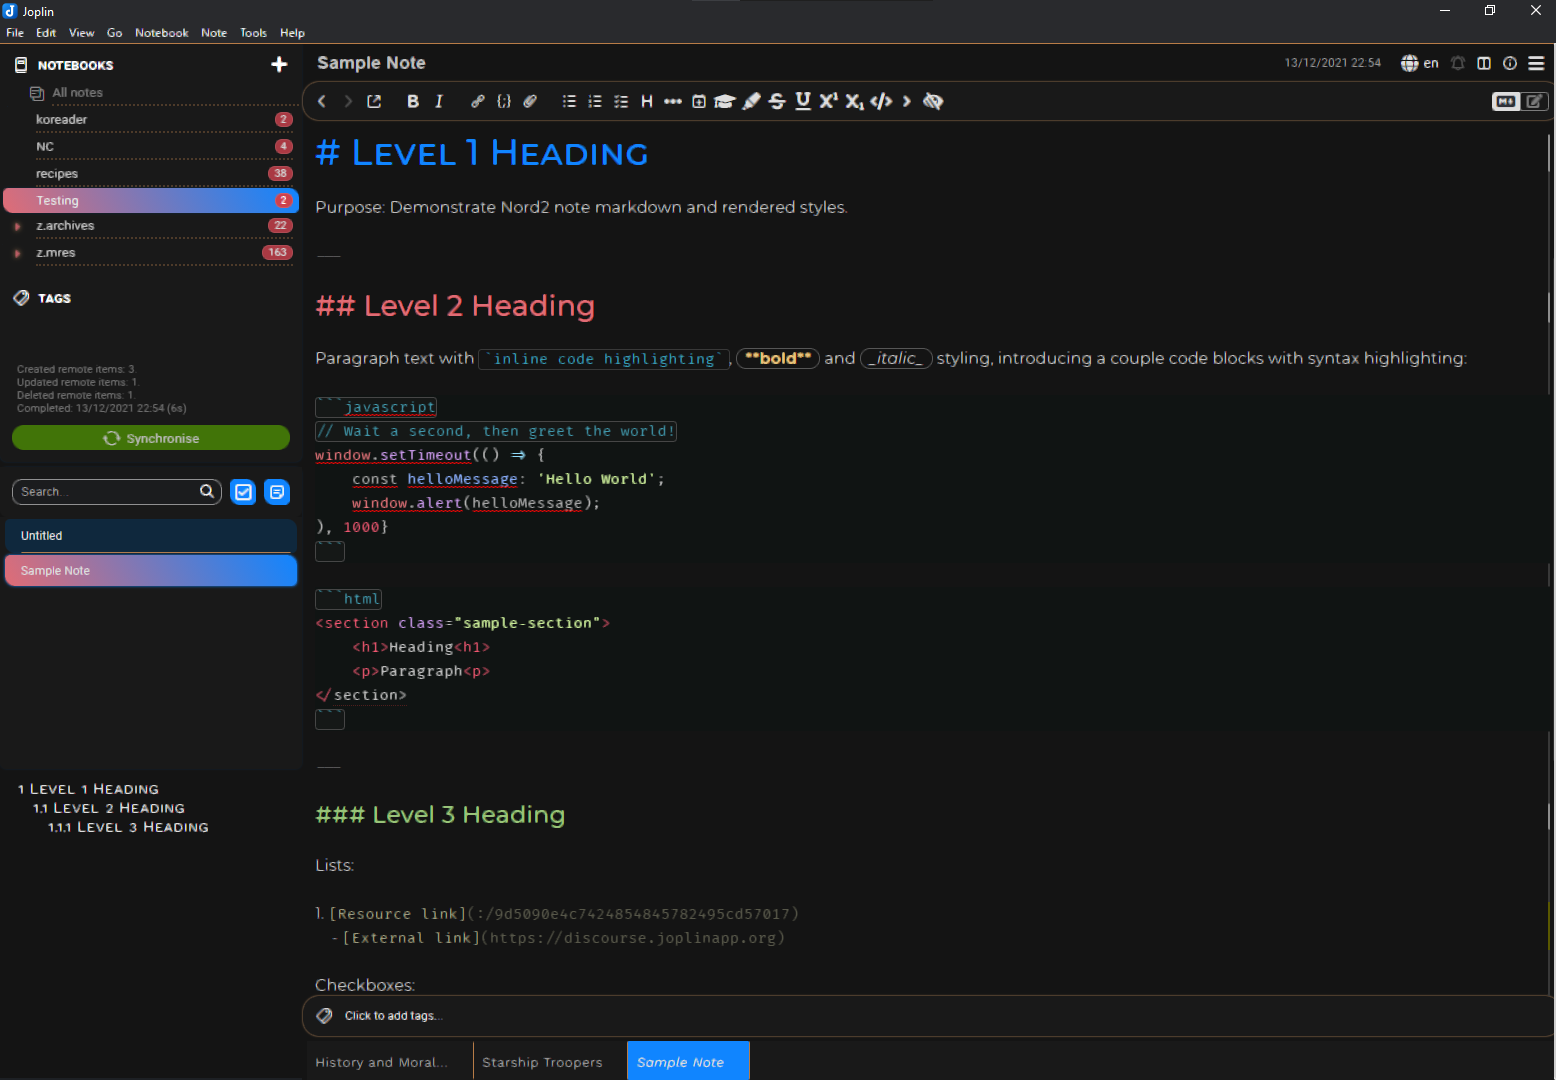
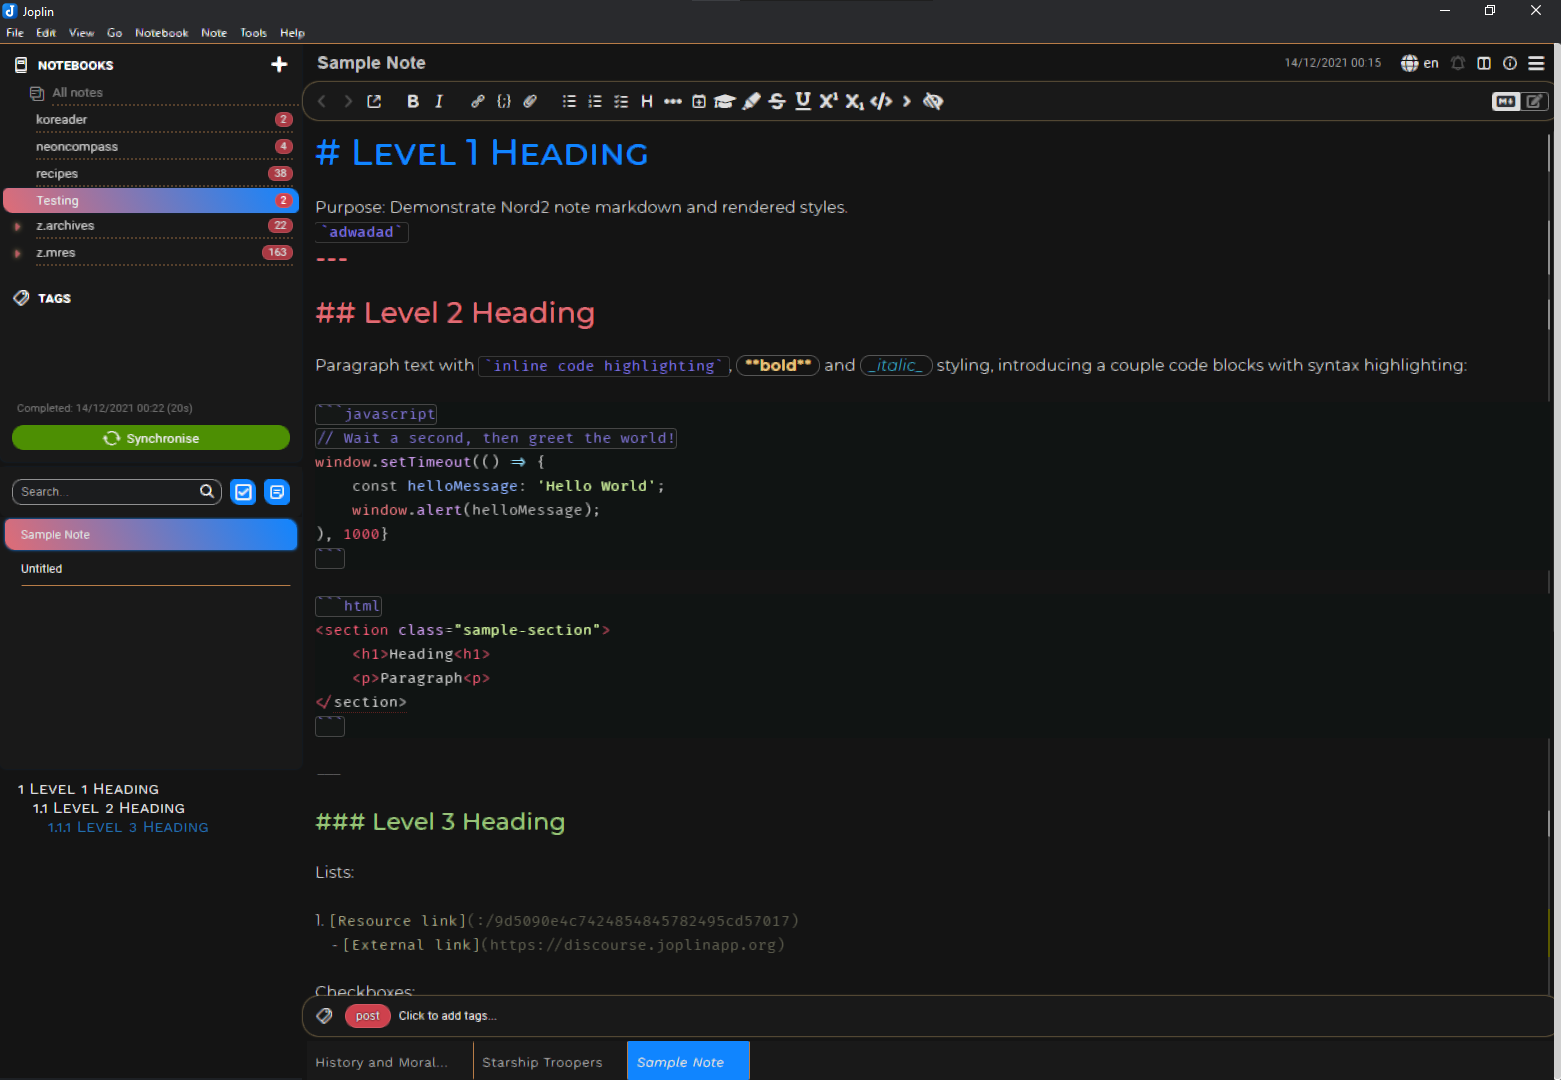
Change base inline code color, updated screenshot.

diff --git a/userchrome.css b/userchrome.css
@@ -1,5 +1,5 @@
 /* Plastic Joplin, styling the Markdown Editor and Joplin UI */
-/*A bunch of variables have been consolidated in the :root in order to help switching in and out colours to your heart's content. The coding colours and syntax stuff are likely overlooked by myself but in my use they seem to fit nicely. Apologies for some of the double-ups in formatting text colours.*/
+/*A bunch of variables have been consolidated in the :root in order to help switching in and out colours to your heart's content. The coding colours and syntax stuff are likely overlooked by myself but in my use they seem to fit nicely*/
 
 
 
@@ -21,6 +21,7 @@
   --color-italics:      #3899AF;
   --color-bold:         #E5C07B;
   --color-quote:        #B05A3E;
+  --color-code:         #9080ffcc;
 
   --color-background: #141414;
 
@@ -918,7 +919,7 @@
     background-color: var(--np-sync-button) !important;
     border: none !important;
     border-radius: 1em !important;
-    opacity: 0.7;
+    opacity: 0.9;
   }
   .sidebar > div > button:hover {
     filter: var(--np-sync-btn-hover);
@@ -1197,7 +1198,7 @@
 
 /* inline code */
 .cm-s-material-darker pre.CodeMirror-line > span > span.cm-comment {
-  color:            var(--color-italics) !important;
+  color:            var(--color-code) !important;
   border:           var(--border-code);
   background-color: var(--backgd-code);
   border-radius:    var(--radius-code);
